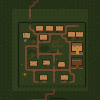
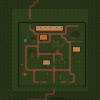
Cartel QUEST a 64,55, minimapa de la Ullathorpe nueva, parálisis de bichos 7 minutos, se borra la estructura de 1,59,49 y Excel de varas y báculos
Claude-Session: https://claude.ai/code/session_01HzsK1tc3Aky3qJofXkgBu1

diff --git a/server/src/estructuras.js b/server/src/estructuras.js
@@ -68,11 +68,16 @@ E.cargarEstructuras = function () {
     if (fs.existsSync(this.estrPath)) this.estr = JSON.parse(fs.readFileSync(this.estrPath, 'utf8')).cambios || {};
   } catch (e) { console.error('Error leyendo estructuras.json:', e.message); }
   let n = 0;
+  // Estructuras que quedaron mal con la Ullathorpe nueva (por ejemplo el escudo tirado en 1,59,49): se borran
+  const SACAR = ['1,59,49'];
+  let sacadas = 0;
+  for (const k of SACAR) if (k in this.estr && this.estr[k]) { this.estr[k] = 0; sacadas++; }
   for (const k of Object.keys(this.estr)) this.estr[k] = G.nuevoId(this.estr[k]); // números viejos -> 2000+
   for (const [clave, id] of Object.entries(this.estr)) {
     const [m, x, y] = clave.split(',').map(Number);
     if (this.aplicarEstructura(m, x, y, id, false)) n++;
   }
+  if (sacadas) this.guardarEstructuras();
   console.log(`Estructuras cambiadas por Admins: ${n}`);
 };
 

diff --git a/server/src/spells.js b/server/src/spells.js
@@ -6,6 +6,7 @@ const { idx, SK } = G;
 const rnd = World.rnd;
 
 const S = {};
+const PARALISIS_NPC_MS = 7 * 60 * 1000; // un bicho paralizado queda así 7 minutos (o hasta que muera)
 const TARGET = { USUARIO: 1, NPC: 2, AMBOS: 3, TERRENO: 4 };
 
 S.castSpell = function (p, slot, x, y) {
@@ -104,7 +105,7 @@ S.applySpell = function (p, t, sp) {
       this.msg(p, 'Has curado a la criatura.', 'spell');
     }
     if (sp.paraliza || sp.inmoviliza) {
-      t.paralyzed = Date.now() + 10000;
+      t.paralyzed = Date.now() + PARALISIS_NPC_MS;
       t.target = p.id;
       this.msg(p, `${t.name} quedó paralizado.`, 'spell');
     }
